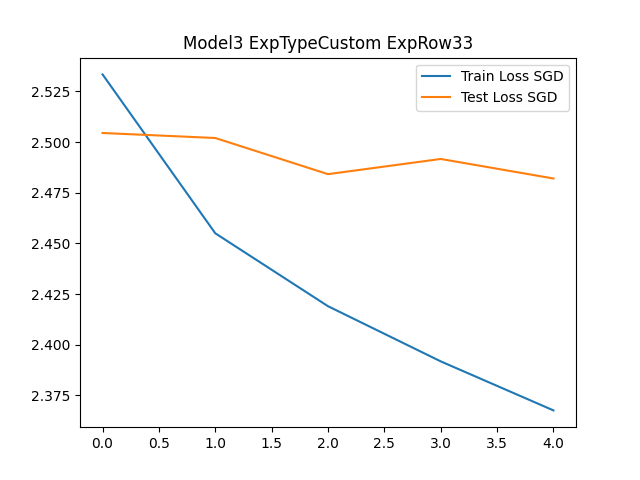
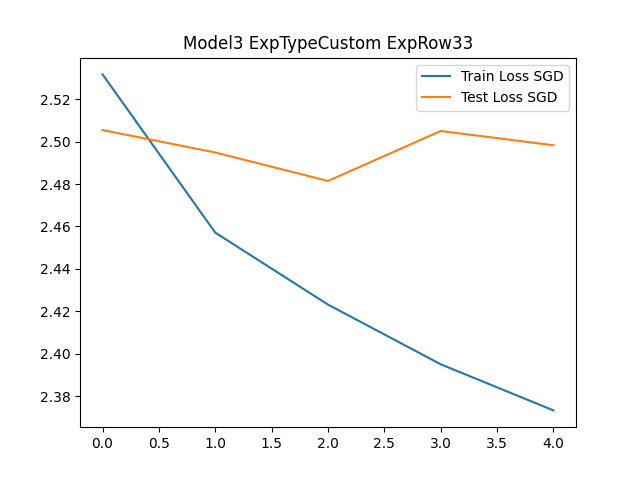
.

diff --git a/Assignment1 Experiment Set up.py b/Assignment1 Experiment Set up.py
@@ -25,7 +25,7 @@ wbExperiments = openpyxl.load_workbook(r"/home/millerd/workspace/DeepLearning/Ex
 # wb = openpyxl.load_workbook("data.xlsx")    # for remote desktop Andy
 ExpSheet = wbExperiments['Experiments']
 # experiments = range(32, 38) #row corresponding to the experiments that you want to run. last number is not included. minimum is 2
-experiments = [33]   # for the custom experiments
+experiments = [45]   # for the custom experiments
 
 for experiment in experiments:
     for model_no in ["3"]: # models 2, 5, 6, 8, 9, 10 have been removed. do 7 after the greyscale ones are done
